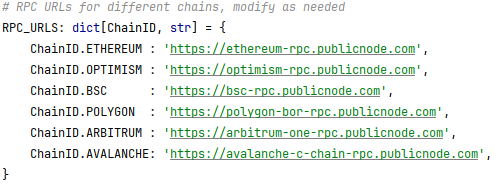
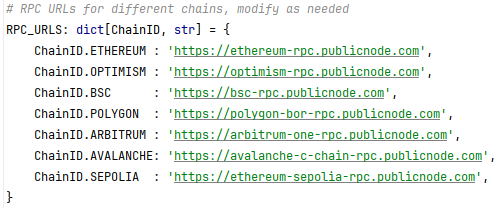
Update help text and README.md

diff --git a/cli.py b/cli.py
@@ -57,10 +57,10 @@ def get_option() -> tuple[str, argparse.Namespace] | None:
         nargs=4,
         metavar=("<key>", "<chain>", "<symbol>", "<unit>"),
         help="Make a deposit\n"
-             "<key>   : Private key in Hex string, '0x' prefix is optional\n"
-             "<chain> : Supported values: ethereum, optimism, bsc, polygon, arbitrum, avalanche, sepolia. Case insensitive\n"
-             "<symbol>: Coin symbol, eg: eth, bnb, avax, dai, etc. Case insensitive\n"
-             "<unit>  : Tornado unit of coins, eg: 0.1, 1, 10, etc."
+             "<key>   : Private key to provide ETHs for deposit and pay the gas fee, hex string, '0x' prefix is optional\n"
+             "<chain> : Name of the chain, values: ethereum, optimism, bsc, polygon, arbitrum, avalanche, sepolia. Case insensitive\n"
+             "<symbol>: Name of the token, values: eth, bnb, pol, avax, dai, cdai, usdt, usdc, wbtc. Case insensitive\n"
+             "<unit>  : Tornado unit of coins, eg: 0.1, 1, 10, ..."
     )
     parser.add_argument(
         '--deposit_batch',
@@ -68,7 +68,7 @@ def get_option() -> tuple[str, argparse.Namespace] | None:
         nargs=2,
         metavar=("<key>", "<json>"),
         help="Make deposit in batch\n"
-             "<key> : Private key in Hex string, '0x' prefix is optional\n"
+             "<key> : Private key to provide ETHs for deposit and pay the gas fee, hex string, '0x' prefix is optional\n"
              "<json>: JSON string to describe a batch, eg: \n"
              "        '{\"ethereum\": {\"eth\": {\"10\": 100, \"100\": 20}}, \"polygon\": {\"pol\": {\"100000\": 1000}}}'\n"
     )
@@ -78,8 +78,8 @@ def get_option() -> tuple[str, argparse.Namespace] | None:
         nargs=2,
         metavar=("<key>", "<invoice>"),
         help="Make a deposit\n"
-             "<key>    : Private key in Hex string, '0x' prefix is optional\n"
-             "<invoice>: Tornado note invoice text generated by '--note' or '--note_detail'"
+             "<key>    : Private key to pay the gas fee, hex string, '0x' prefix is optional\n"
+             "<invoice>: Tornado note invoice text generated by '--create_note' or '--note_detail'"
     )
     parser.add_argument(
         '--withdraw',
@@ -89,7 +89,7 @@ def get_option() -> tuple[str, argparse.Namespace] | None:
         help="Make a withdrawal\n"
              "<note>           : Tornado note text\n"
              "<recipient>      : Recipient address\n"
-             "<key/relayer_url>: Relayer URL or private key in Hex string, '0x' prefix is optional\n"
+             "<key/relayer_url>: Relayer URL, or a private key to pay the gas fee in hex string, '0x' prefix is optional\n"
     )
     parser.add_argument(
         '--withdraw_batch',
@@ -107,9 +107,9 @@ def get_option() -> tuple[str, argparse.Namespace] | None:
         nargs=3,
         metavar=("<chain>", "<symbol>", "<unit>"),
         help="Create a note\n"
-             "<chain> : Supported values: ethereum, optimism, bsc, polygon, arbitrum, avalanche, sepolia. Case insensitive\n"
-             "<symbol>: Coin symbol, eg: eth, bnb, avax, dai, etc. Case insensitive\n"
-             "<unit>  : Tornado unit of coins, eg: 0.1, 1, 10, etc."
+             "<chain> : Name of the chain, values: ethereum, optimism, bsc, polygon, arbitrum, avalanche, sepolia. Case insensitive\n"
+             "<symbol>: Name of the token, values: eth, bnb, pol, avax, dai, cdai, usdt, usdc, wbtc. Case insensitive\n"
+             "<unit>  : Tornado unit of coins, eg: 0.1, 1, 10, ..."
     )
     parser.add_argument(
         '--note_deposited',

diff --git a/README.md b/README.md
@@ -50,6 +50,15 @@ By default, it uses Node.js binary runtime bundled in the `./zk/bin` directory, 
 See 👉 [Node.js official website](https://nodejs.org/en/download) for installation if you don't want to use the bundled binary.  
 
 
+## Running Tests
+
+It is **HIGHLY** recommended to run all unit tests before using this program, to make sure the mathematics and cryptographic calculations are correct on your machine.
+- Navigate to the project root directory and run the unit tests using Python's unittest framework:
+    ```bash
+    python -m unittest discover -s test -p "test_*.py"
+    ```
+
+
 ## Usage & Tutorial
 
 ### Sync Blockchain
@@ -70,9 +79,14 @@ It is recommended to keep the program running to stay synchronized with the bloc
 
 ### Deposit
 
-The private key is used to provide ETH and pay for gas fees, make sure it has enough balance.
+The private key is used to provide ETHs for deposit and pay for gas fees, make sure it has enough balance.
 ```bash
 # python cli.py --deposit <key> <chain> <symbol> <unit>
+# <key>   : Private key to provide ETHs for deposit and pay the gas fee, hex string, '0x' prefix is optional
+# <chain> : Name of the chain, values: ethereum, optimism, bsc, polygon, arbitrum, avalanche, sepolia. Case insensitive
+# <symbol>: Name of the token, values: eth, bnb, pol, avax, dai, cdai, usdt, usdc, wbtc. Case insensitive
+# <unit>  : Tornado unit of coins, eg: 0.1, 1, 10, ...
+
 python cli.py --deposit 0x0f36dead4beafdead4beafdead4beafdead4beafdead4beafdead4beafde9a66 sepolia eth 0.1
 ```
 
@@ -92,7 +106,11 @@ A very convenient way if you have multiple addresses on different chains that ho
 
 ```bash
 # python cli.py --deposit_batch <key> <json>
-python cli.py --deposit_batch 0x0f36dead4beafdead4beafdead4beafdead4beafdead4beafdead4beafde9a66 "{'ethereum':{'eth':{'10':100,'100':20}},'polygon':{'pol':{'100000':1000}}}"
+# <key> : Private key to provide ETHs for deposit and pay the gas fee, hex string, '0x' prefix is optional
+# <json>: JSON string to describe a batch, eg:
+#         {"ethereum": {"eth": {"10": 100, "100": 20}}, "polygon": {"pol": {"100000": 1000}}}'
+
+python cli.py --deposit_batch 0x0f36dead4beafdead4beafdead4beafdead4beafdead4beafdead4beafde9a66 "{'sepolia':{'eth':{'0.1':3}}}"
 ```
 
 
@@ -101,6 +119,10 @@ python cli.py --deposit_batch 0x0f36dead4beafdead4beafdead4beafdead4beafdead4bea
 Create a note on the offline machine, scan the QR code or copy the invoice text to the online machine  
 ```bash
 # python cli.py --create_note <chain> <symbol> <unit>
+# <chain> : Name of the chain, values: ethereum, optimism, bsc, polygon, arbitrum, avalanche, sepolia. Case insensitive
+# <symbol>: Name of the token, values: eth, bnb, pol, avax, dai, cdai, usdt, usdc, wbtc. Case insensitive
+# <unit>  : Tornado unit of coins, eg: 0.1, 1, 10, ...
+
 > python cli.py --create_note sepolia eth 0.1
 [I 2025-10-10 09:46:45:111 tid=39724 stdout]  ▄▄▄▄▄▄▄ ▄▄▄         ▄ ▄▄▄  ▄  ▄▄▄▄▄▄▄ 
 [I 2025-10-10 09:46:45:111 tid=39724 stdout]  █ ▄▄▄ █  █▄█ ▀ ███ █▄█▀▄█▀▄▄█ █ ▄▄▄ █ 
@@ -133,6 +155,9 @@ Create a note on the offline machine, scan the QR code or copy the invoice text 
 On the online machine, use the `--deposit_invoice` command to make the deposit.  
 ```bash
 # python cli.py --deposit_invoice <key> <invoice>
+# <key>    : Private key to pay the gas fee, hex string, '0x' prefix is optional
+# <invoice>: Tornado note invoice text generated by '--create_note' or '--note_detail'
+             
 > python cli.py --deposit_invoice 0x0f36dead4beafdead4beafdead4beafdead4beafdead4beafdead4beafde9a66 sepolia-eth-0.1-122ec0ef7098492ae61f26695edd4c070ca40ca6b1455ff64843f53ad03780cb
 [I 2025-10-10 09:48:57:807 tid=35492 cli] Depositing Sepolia 0.1 eth (cli.py:357)
 [I 2025-10-10 09:49:03:674 tid=35492 Tornado] deposit(from=0xA09CBdDb54c7bD239F80b252d25002001580BafF) succeed, tx hash: b16ed68f119b80e8e8a3a3df65bf590917fa4262518b5ed2ff680c8511490bca (core.py:271)
@@ -144,6 +169,10 @@ On the online machine, use the `--deposit_invoice` command to make the deposit.
 The private key is used to pay for gas fees, make sure it has enough ETH.
 ```bash
 # python cli.py --withdraw <note> <recipient> <key/relayer_url>
+# <note>           : Tornado note text
+# <recipient>      : Recipient address
+# <key/relayer_url>: Relayer URL, or a private key to pay the gas fee in hex string, '0x' prefix is optional
+     
 python cli.py --withdraw \
     sepolia-eth-0.1-e7d384e9ee682ea4c209893b0d618094bedfb7b580400686fc6ef350514667-bb5654636d95ffb21235a79cb504a847f4c0eba695346491fa105761e7a0f8 \
     0xA09CBdDb54c7bD239F80b252d25002001580BafF \
@@ -152,7 +181,6 @@ python cli.py --withdraw \
 
 With a relayer service, the private key is not required, but the relayer will charge a fee from the withdrawn amount.
 ```bash
-# python cli.py --withdraw <note> <recipient> <key/relayer_url>
 python cli.py --withdraw \
     sepolia-eth-0.1-e7d384e9ee682ea4c209893b0d618094bedfb7b580400686fc6ef350514667-bb5654636d95ffb21235a79cb504a847f4c0eba695346491fa105761e7a0f8 \
     0xA09CBdDb54c7bD239F80b252d25002001580BafF \
@@ -197,15 +225,6 @@ If succeeded, you will see logs like below.
 Somtimes with a relayer, you need to increase the service fee rate in `config.py`, the default is `1.8%`
 
 ![](/assets/readme_withdraw.png)
-
-
-## Running Tests
-
-It is **HIGHLY** recommended to run all unit tests before using this program, to make sure the mathematics and cryptographic calculations are correct on your machine.
-- Navigate to the project root directory and run the unit tests using Python's unittest framework:
-    ```bash
-    python -m unittest discover -s test -p "test_*.py"
-    ```
 
 
 ## Known Relayers  
